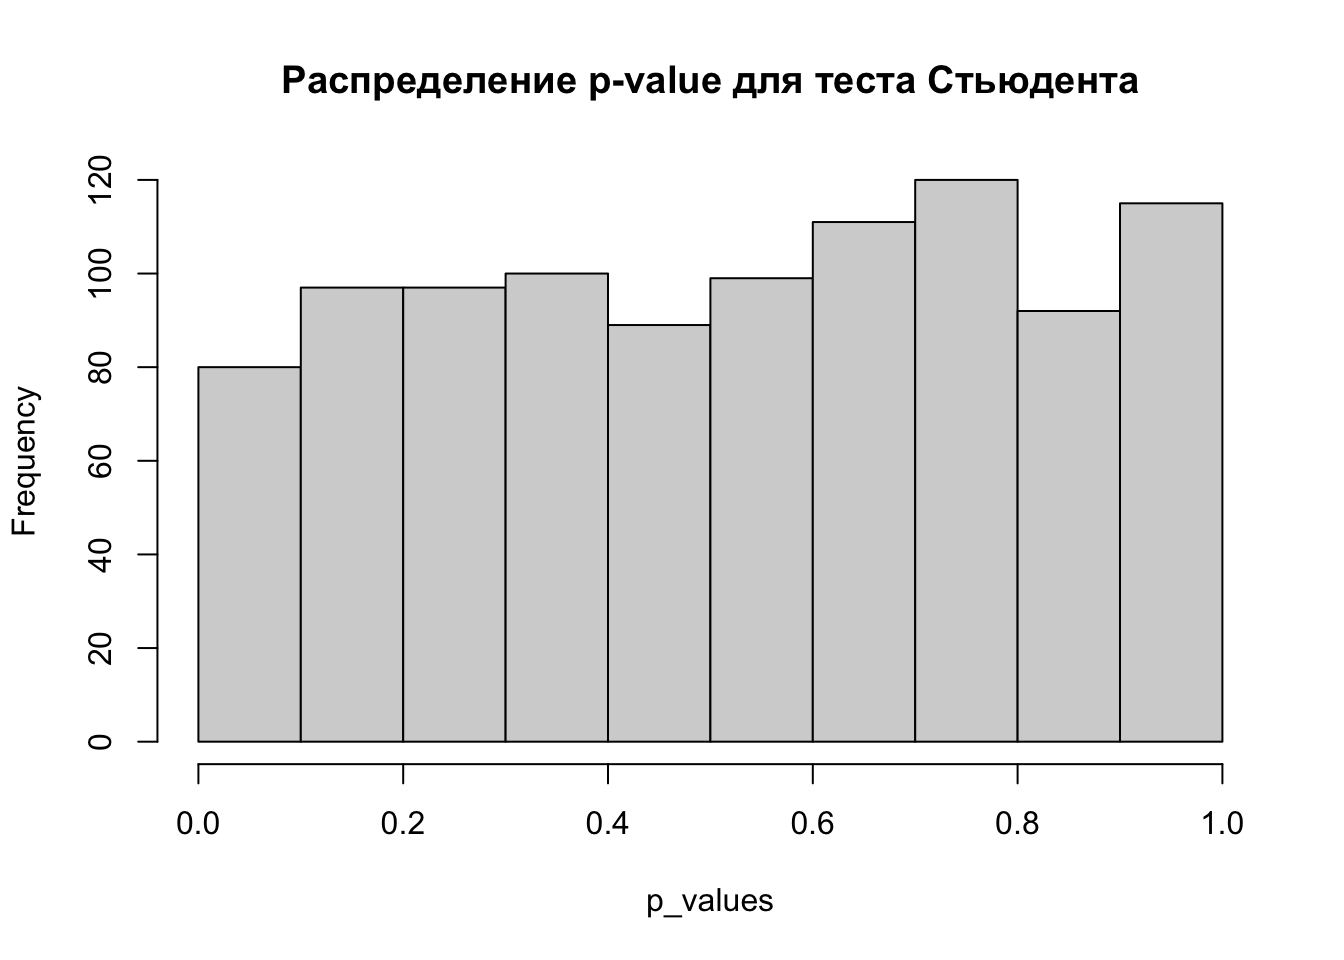
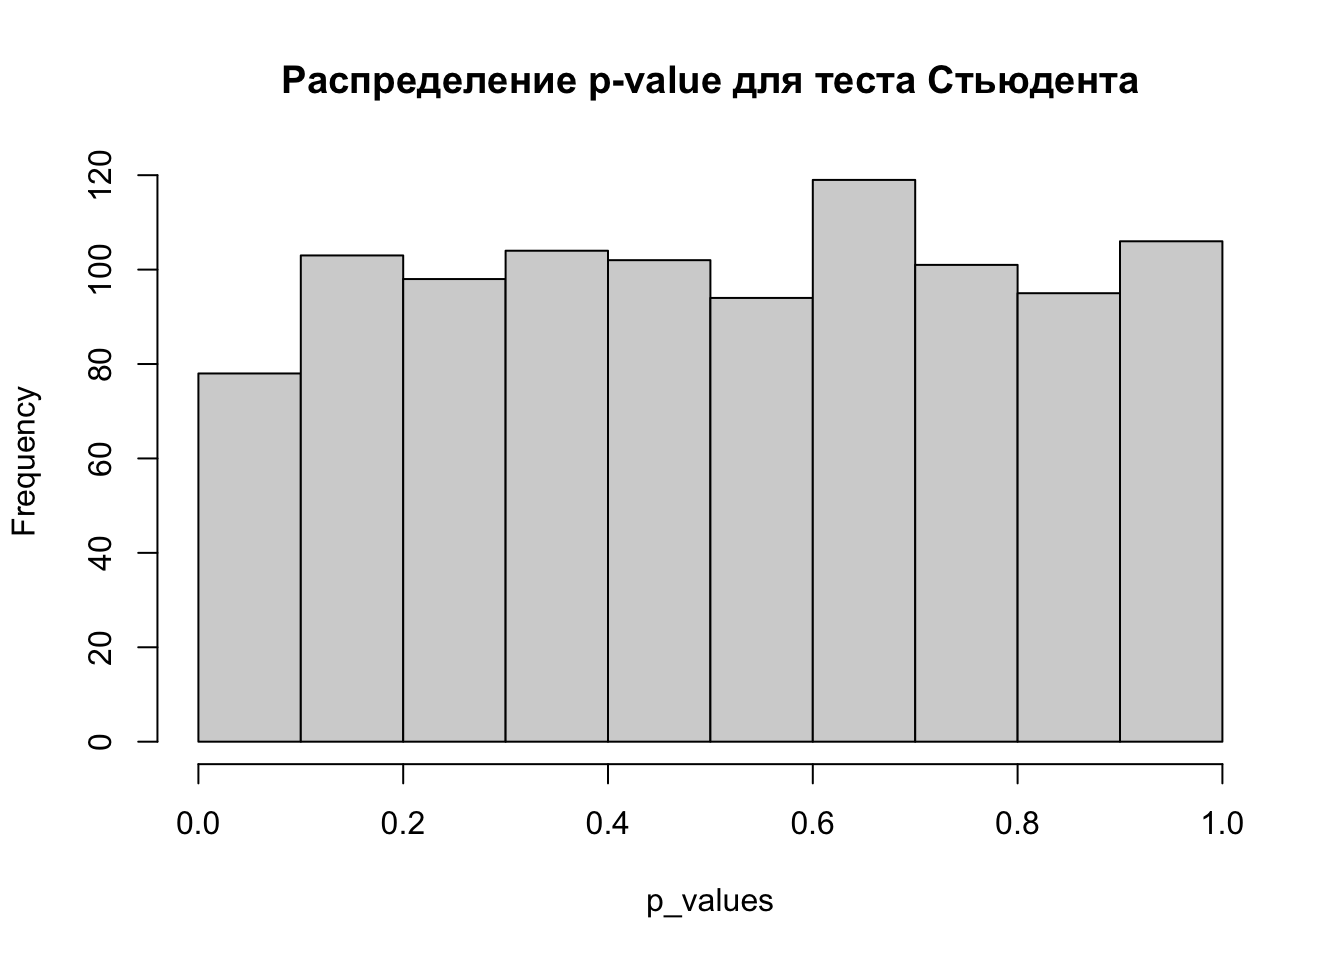
Built site for gh-pages

diff --git a/posts/welch_test.html b/posts/welch_test.html
@@ -103,12 +103,6 @@ pre > code.sourceCode > span > a:first-child::before { text-decoration: underlin
     "search-label": "Search"
   }
 }</script>
-<script async="" src="https://hypothes.is/embed.js"></script>
-<script>
-  window.document.addEventListener("DOMContentLoaded", function (_event) {
-    document.body.classList.add('hypothesis-enabled');
-  });
-</script>
 
   <script src="https://polyfill.io/v3/polyfill.min.js?features=es6"></script>
   <script src="https://cdn.jsdelivr.net/npm/mathjax@3/es5/tex-chtml-full.js" type="text/javascript"></script>
@@ -293,13 +287,13 @@ s_x = \sqrt{\frac{(n_1 - 1)s_1^2 + (n_2 - 1)s_2^2}{n_1 + n_2 - 2}}
     Two Sample t-test
 
 data:  rnorm(100, mean = 0, sd = 1) and rnorm(100, mean = 0, sd = 1)
-t = 0.56451, df = 198, p-value = 0.573
+t = 0.29237, df = 198, p-value = 0.7703
 alternative hypothesis: true difference in means is not equal to 0
 95 percent confidence interval:
- -0.2009888  0.3622122
+ -0.2274987  0.3066976
 sample estimates:
-   mean of x    mean of y 
- 0.079524855 -0.001086839 </code></pre>
+  mean of x   mean of y 
+-0.02237109 -0.06197055 </code></pre>
 </div>
 </div>
 <p>Однако это делать не рекомендуется, поскольку при равных дисперсиях тест Стьюдента не будет сильно отличаться от теста Велча, а при разных тест Велча точнее.</p>
@@ -357,7 +351,7 @@ Note
 </div>
 <div class="sourceCode cell-code" id="cb5"><pre class="sourceCode r code-with-copy"><code class="sourceCode r"><span id="cb5-1"><a href="#cb5-1" aria-hidden="true" tabindex="-1"></a><span class="fu">mean</span>(p_values <span class="sc">&lt;</span> <span class="fl">0.05</span>) <span class="co"># доля p-value, которые оказались меньше 0.05 (прокрасились) </span></span></code><button title="Copy to Clipboard" class="code-copy-button"><i class="bi"></i></button></pre></div>
 <div class="cell-output cell-output-stdout">
-<pre><code>[1] 0.038</code></pre>
+<pre><code>[1] 0.039</code></pre>
 </div>
 </div>
 <p><strong>Тест Стьюдента</strong></p>
@@ -377,7 +371,7 @@ Note
 </div>
 <div class="sourceCode cell-code" id="cb8"><pre class="sourceCode r code-with-copy"><code class="sourceCode r"><span id="cb8-1"><a href="#cb8-1" aria-hidden="true" tabindex="-1"></a><span class="fu">mean</span>(p_values <span class="sc">&lt;</span> <span class="fl">0.05</span>) <span class="co"># доля p-value, которые оказались меньше 0.05 (прокрасились)</span></span></code><button title="Copy to Clipboard" class="code-copy-button"><i class="bi"></i></button></pre></div>
 <div class="cell-output cell-output-stdout">
-<pre><code>[1] 0.037</code></pre>
+<pre><code>[1] 0.041</code></pre>
 </div>
 </div>
 <p>Здесь у нас вероятность ошибки первого рода для обоих тестов примерно 0.05, а также распределение p-value похоже на равномерное. Это ожидаемо и корректно, так как выборки извлекались из одинаковой генеральной совокупности, а значит, что доля значимых тестов должна быть не больше заданного уровня <span class="math inline">\(\alpha\)</span>, в данном случае 0.05.</p>
@@ -433,7 +427,20 @@ Note
 </section>
 <section id="одинаковое-среднее-разная-дисперсия-разный-размер-выборок" class="level3">
 <h3 class="anchored" data-anchor-id="одинаковое-среднее-разная-дисперсия-разный-размер-выборок">Одинаковое среднее, разная дисперсия, разный размер выборок</h3>
-<p>Например, в одной выборке 3000 наблюдений, в другой 7000.</p>
+<p>Например, в выборке с меньшей дисперсией 3000 наблюдений, в выборке с большей дисперсией 7000 наблюдений.</p>
+<div class="callout callout-style-default callout-warning callout-titled">
+<div class="callout-header d-flex align-content-center">
+<div class="callout-icon-container">
+<i class="callout-icon"></i>
+</div>
+<div class="callout-title-container flex-fill">
+Примечание
+</div>
+</div>
+<div class="callout-body-container callout-body">
+<p>Здесь я написала так для краткости, имелось ввиду: выборки, извлеченные из генеральной совокупности с <strong>меньшей</strong> дисперсией, содержат 3000 наблюдений, а выборки, извлеченные из генеральной совокупности с <strong>большей</strong> дисперсией, содержат 7000 наблюдений.</p>
+</div>
+</div>
 <div class="callout callout-style-default callout-tip callout-titled">
 <div class="callout-header d-flex align-content-center">
 <div class="callout-icon-container">
@@ -496,8 +503,8 @@ Note
 <div class="sourceCode cell-code" id="cb24"><pre class="sourceCode r code-with-copy"><code class="sourceCode r"><span id="cb24-1"><a href="#cb24-1" aria-hidden="true" tabindex="-1"></a>var_size <span class="ot">&lt;-</span> <span class="fu">seq</span>(<span class="dv">0</span>, <span class="dv">5</span>, <span class="fl">0.5</span>)</span>
 <span id="cb24-2"><a href="#cb24-2" aria-hidden="true" tabindex="-1"></a>calculate_mean_error_1st_type <span class="ot">&lt;-</span> <span class="cf">function</span>(x, var.equal) {</span>
 <span id="cb24-3"><a href="#cb24-3" aria-hidden="true" tabindex="-1"></a>  <span class="fu">mean</span>(<span class="fu">replicate</span>(<span class="dv">1000</span>, </span>
-<span id="cb24-4"><a href="#cb24-4" aria-hidden="true" tabindex="-1"></a>                 <span class="fu">t.test</span>(<span class="fu">rnorm</span>(<span class="dv">9000</span>, <span class="fl">0.2</span>, <span class="dv">1</span>), </span>
-<span id="cb24-5"><a href="#cb24-5" aria-hidden="true" tabindex="-1"></a>                        <span class="fu">rnorm</span>(<span class="dv">1000</span>, <span class="fl">0.2</span>, <span class="dv">1</span><span class="sc">+</span>x), </span>
+<span id="cb24-4"><a href="#cb24-4" aria-hidden="true" tabindex="-1"></a>                 <span class="fu">t.test</span>(<span class="fu">rnorm</span>(<span class="dv">3000</span>, <span class="fl">0.2</span>, <span class="dv">1</span>), </span>
+<span id="cb24-5"><a href="#cb24-5" aria-hidden="true" tabindex="-1"></a>                        <span class="fu">rnorm</span>(<span class="dv">7000</span>, <span class="fl">0.2</span>, <span class="dv">1</span><span class="sc">+</span>x), </span>
 <span id="cb24-6"><a href="#cb24-6" aria-hidden="true" tabindex="-1"></a>                        <span class="at">var.equal =</span> var.equal)<span class="sc">$</span>p.value) <span class="sc">&lt;</span> <span class="fl">0.05</span>)</span>
 <span id="cb24-7"><a href="#cb24-7" aria-hidden="true" tabindex="-1"></a>}</span>
 <span id="cb24-8"><a href="#cb24-8" aria-hidden="true" tabindex="-1"></a>welch_error_1st_type <span class="ot">&lt;-</span> <span class="fu">map_dbl</span>(var_size, <span class="sc">~</span><span class="fu">calculate_mean_error_1st_type</span>(., <span class="cn">FALSE</span>))</span>
@@ -727,27 +734,38 @@ Note
 <h3 class="anchored" data-anchor-id="разное-среднее-разная-дисперсия-разный-размер-выборок">Разное среднее, разная дисперсия, разный размер выборок</h3>
 <div class="cell">
 <div class="sourceCode cell-code" id="cb46"><pre class="sourceCode r code-with-copy"><code class="sourceCode r"><span id="cb46-1"><a href="#cb46-1" aria-hidden="true" tabindex="-1"></a>pop1 <span class="ot">&lt;-</span> <span class="fu">rnorm</span>(<span class="dv">100000</span>, <span class="fl">0.2</span>, <span class="dv">1</span>)</span>
-<span id="cb46-2"><a href="#cb46-2" aria-hidden="true" tabindex="-1"></a>pop2 <span class="ot">&lt;-</span> <span class="fu">rnorm</span>(<span class="dv">100000</span>, <span class="fl">0.3</span>, <span class="dv">3</span>)</span>
-<span id="cb46-3"><a href="#cb46-3" aria-hidden="true" tabindex="-1"></a><span class="co"># тест Велча</span></span>
-<span id="cb46-4"><a href="#cb46-4" aria-hidden="true" tabindex="-1"></a><span class="fu">mean</span>(<span class="fu">replicate</span>(<span class="dv">10000</span>, <span class="fu">t.test</span>(pop1 <span class="sc">%&gt;%</span> </span>
-<span id="cb46-5"><a href="#cb46-5" aria-hidden="true" tabindex="-1"></a>                               <span class="fu">sample</span>(<span class="dv">3000</span>, <span class="at">replace =</span> <span class="cn">FALSE</span>), </span>
-<span id="cb46-6"><a href="#cb46-6" aria-hidden="true" tabindex="-1"></a>                             pop2 <span class="sc">%&gt;%</span> </span>
-<span id="cb46-7"><a href="#cb46-7" aria-hidden="true" tabindex="-1"></a>                               <span class="fu">sample</span>(<span class="dv">7000</span>, <span class="at">replace =</span> <span class="cn">FALSE</span>))<span class="sc">$</span>p.value) <span class="sc">&lt;</span> <span class="fl">0.05</span>)</span></code><button title="Copy to Clipboard" class="code-copy-button"><i class="bi"></i></button></pre></div>
+<span id="cb46-2"><a href="#cb46-2" aria-hidden="true" tabindex="-1"></a>pop2 <span class="ot">&lt;-</span> <span class="fu">rnorm</span>(<span class="dv">100000</span>, <span class="fl">0.35</span>, <span class="dv">2</span>)</span>
+<span id="cb46-3"><a href="#cb46-3" aria-hidden="true" tabindex="-1"></a><span class="fu">summary</span>(pop1)</span></code><button title="Copy to Clipboard" class="code-copy-button"><i class="bi"></i></button></pre></div>
 <div class="cell-output cell-output-stdout">
-<pre><code>[1] 0.6574</code></pre>
+<pre><code>   Min. 1st Qu.  Median    Mean 3rd Qu.    Max. 
+-4.1361 -0.4725  0.1992  0.2008  0.8746  4.9005 </code></pre>
+</div>
+<div class="sourceCode cell-code" id="cb48"><pre class="sourceCode r code-with-copy"><code class="sourceCode r"><span id="cb48-1"><a href="#cb48-1" aria-hidden="true" tabindex="-1"></a><span class="fu">summary</span>(pop2)</span></code><button title="Copy to Clipboard" class="code-copy-button"><i class="bi"></i></button></pre></div>
+<div class="cell-output cell-output-stdout">
+<pre><code>   Min. 1st Qu.  Median    Mean 3rd Qu.    Max. 
+-8.2408 -1.0054  0.3471  0.3469  1.6928  8.8229 </code></pre>
+</div>
+<div class="sourceCode cell-code" id="cb50"><pre class="sourceCode r code-with-copy"><code class="sourceCode r"><span id="cb50-1"><a href="#cb50-1" aria-hidden="true" tabindex="-1"></a><span class="co"># тест Велча</span></span>
+<span id="cb50-2"><a href="#cb50-2" aria-hidden="true" tabindex="-1"></a><span class="fu">mean</span>(<span class="fu">replicate</span>(<span class="dv">10000</span>, <span class="fu">t.test</span>(pop1 <span class="sc">%&gt;%</span> </span>
+<span id="cb50-3"><a href="#cb50-3" aria-hidden="true" tabindex="-1"></a>                               <span class="fu">sample</span>(<span class="dv">7000</span>, <span class="at">replace =</span> <span class="cn">FALSE</span>), </span>
+<span id="cb50-4"><a href="#cb50-4" aria-hidden="true" tabindex="-1"></a>                             pop2 <span class="sc">%&gt;%</span> </span>
+<span id="cb50-5"><a href="#cb50-5" aria-hidden="true" tabindex="-1"></a>                               <span class="fu">sample</span>(<span class="dv">3000</span>, <span class="at">replace =</span> <span class="cn">FALSE</span>))<span class="sc">$</span>p.value) <span class="sc">&lt;</span> <span class="fl">0.05</span>)</span></code><button title="Copy to Clipboard" class="code-copy-button"><i class="bi"></i></button></pre></div>
+<div class="cell-output cell-output-stdout">
+<pre><code>[1] 0.9695</code></pre>
 </div>
 </div>
 <div class="cell">
-<div class="sourceCode cell-code" id="cb48"><pre class="sourceCode r code-with-copy"><code class="sourceCode r"><span id="cb48-1"><a href="#cb48-1" aria-hidden="true" tabindex="-1"></a><span class="co"># тест Стьюдента</span></span>
-<span id="cb48-2"><a href="#cb48-2" aria-hidden="true" tabindex="-1"></a><span class="fu">mean</span>(<span class="fu">replicate</span>(<span class="dv">10000</span>, <span class="fu">t.test</span>(pop1 <span class="sc">%&gt;%</span> </span>
-<span id="cb48-3"><a href="#cb48-3" aria-hidden="true" tabindex="-1"></a>                               <span class="fu">sample</span>(<span class="dv">3000</span>, <span class="at">replace =</span> <span class="cn">FALSE</span>), </span>
-<span id="cb48-4"><a href="#cb48-4" aria-hidden="true" tabindex="-1"></a>                             pop2 <span class="sc">%&gt;%</span> </span>
-<span id="cb48-5"><a href="#cb48-5" aria-hidden="true" tabindex="-1"></a>                               <span class="fu">sample</span>(<span class="dv">7000</span>, <span class="at">replace =</span> <span class="cn">FALSE</span>),</span>
-<span id="cb48-6"><a href="#cb48-6" aria-hidden="true" tabindex="-1"></a>                             <span class="at">var.equal =</span> <span class="cn">TRUE</span>)<span class="sc">$</span>p.value) <span class="sc">&lt;</span> <span class="fl">0.05</span>)</span></code><button title="Copy to Clipboard" class="code-copy-button"><i class="bi"></i></button></pre></div>
+<div class="sourceCode cell-code" id="cb52"><pre class="sourceCode r code-with-copy"><code class="sourceCode r"><span id="cb52-1"><a href="#cb52-1" aria-hidden="true" tabindex="-1"></a><span class="co"># тест Стьюдента</span></span>
+<span id="cb52-2"><a href="#cb52-2" aria-hidden="true" tabindex="-1"></a><span class="fu">mean</span>(<span class="fu">replicate</span>(<span class="dv">10000</span>, <span class="fu">t.test</span>(pop1 <span class="sc">%&gt;%</span> </span>
+<span id="cb52-3"><a href="#cb52-3" aria-hidden="true" tabindex="-1"></a>                               <span class="fu">sample</span>(<span class="dv">7000</span>, <span class="at">replace =</span> <span class="cn">FALSE</span>), </span>
+<span id="cb52-4"><a href="#cb52-4" aria-hidden="true" tabindex="-1"></a>                             pop2 <span class="sc">%&gt;%</span> </span>
+<span id="cb52-5"><a href="#cb52-5" aria-hidden="true" tabindex="-1"></a>                               <span class="fu">sample</span>(<span class="dv">3000</span>, <span class="at">replace =</span> <span class="cn">FALSE</span>),</span>
+<span id="cb52-6"><a href="#cb52-6" aria-hidden="true" tabindex="-1"></a>                             <span class="at">var.equal =</span> <span class="cn">TRUE</span>)<span class="sc">$</span>p.value) <span class="sc">&lt;</span> <span class="fl">0.05</span>)</span></code><button title="Copy to Clipboard" class="code-copy-button"><i class="bi"></i></button></pre></div>
 <div class="cell-output cell-output-stdout">
-<pre><code>[1] 0.3437</code></pre>
+<pre><code>[1] 0.9895</code></pre>
 </div>
 </div>
+<p>Здесь тест Велча показал себя значительно лучше.</p>
 </section>
 </section>
 <section id="выводы" class="level2">
@@ -1167,6 +1185,8 @@ window.document.addEventListener("DOMContentLoaded", function (event) {
     }
   }
 });
+</script>
+<script src="https://utteranc.es/client.js" repo="ubogoeva/R4Analytics_comments" issue-term="pathname" theme="github-light" crossorigin="anonymous" async="">
 </script>
 </div> <!-- /content -->
 

diff --git a/posts/multiple_testing.html b/posts/multiple_testing.html
@@ -1230,6 +1230,8 @@ window.document.addEventListener("DOMContentLoaded", function (event) {
   }
 });
 </script>
+<script src="https://utteranc.es/client.js" repo="ubogoeva/R4Analytics_comments" issue-term="pathname" theme="github-light" crossorigin="anonymous" async="">
+</script>
 </div> <!-- /content -->
 
 

diff --git a/about.html b/about.html
@@ -605,6 +605,8 @@ window.document.addEventListener("DOMContentLoaded", function (event) {
   }
 });
 </script>
+<script src="https://utteranc.es/client.js" repo="ubogoeva/R4Analytics_comments" issue-term="pathname" theme="github-light" crossorigin="anonymous" async="">
+</script>
 </div> <!-- /content -->
 
 

diff --git a/posts/R_question_how_to_ask.html b/posts/R_question_how_to_ask.html
@@ -668,6 +668,8 @@ window.document.addEventListener("DOMContentLoaded", function (event) {
   }
 });
 </script>
+<script src="https://utteranc.es/client.js" repo="ubogoeva/R4Analytics_comments" issue-term="pathname" theme="github-light" crossorigin="anonymous" async="">
+</script>
 </div> <!-- /content -->
 
 

diff --git a/posts/YandexMetricsQuarto.html b/posts/YandexMetricsQuarto.html
@@ -646,6 +646,8 @@ window.document.addEventListener("DOMContentLoaded", function (event) {
   }
 });
 </script>
+<script src="https://utteranc.es/client.js" repo="ubogoeva/R4Analytics_comments" issue-term="pathname" theme="github-light" crossorigin="anonymous" async="">
+</script>
 </div> <!-- /content -->
 
 

diff --git a/posts/ansombe_quartet.html b/posts/ansombe_quartet.html
@@ -774,6 +774,8 @@ window.document.addEventListener("DOMContentLoaded", function (event) {
   }
 });
 </script>
+<script src="https://utteranc.es/client.js" repo="ubogoeva/R4Analytics_comments" issue-term="pathname" theme="github-light" crossorigin="anonymous" async="">
+</script>
 </div> <!-- /content -->
 
 

diff --git a/posts/contest_samokat.html b/posts/contest_samokat.html
@@ -795,6 +795,8 @@ window.document.addEventListener("DOMContentLoaded", function (event) {
   }
 });
 </script>
+<script src="https://utteranc.es/client.js" repo="ubogoeva/R4Analytics_comments" issue-term="pathname" theme="github-light" crossorigin="anonymous" async="">
+</script>
 </div> <!-- /content -->
 
 

diff --git a/posts/how_to_install_R.html b/posts/how_to_install_R.html
@@ -724,6 +724,8 @@ window.document.addEventListener("DOMContentLoaded", function (event) {
   }
 });
 </script>
+<script src="https://utteranc.es/client.js" repo="ubogoeva/R4Analytics_comments" issue-term="pathname" theme="github-light" crossorigin="anonymous" async="">
+</script>
 </div> <!-- /content -->
 
 

diff --git a/posts/statistics_course_why_not.html b/posts/statistics_course_why_not.html
@@ -793,6 +793,8 @@ window.document.addEventListener("DOMContentLoaded", function (event) {
   }
 });
 </script>
+<script src="https://utteranc.es/client.js" repo="ubogoeva/R4Analytics_comments" issue-term="pathname" theme="github-light" crossorigin="anonymous" async="">
+</script>
 </div> <!-- /content -->
 
 

diff --git a/posts/students_test.html b/posts/students_test.html
@@ -674,6 +674,8 @@ window.document.addEventListener("DOMContentLoaded", function (event) {
   }
 });
 </script>
+<script src="https://utteranc.es/client.js" repo="ubogoeva/R4Analytics_comments" issue-term="pathname" theme="github-light" crossorigin="anonymous" async="">
+</script>
 </div> <!-- /content -->
 
 

diff --git a/posts/types_of_error_bars.html b/posts/types_of_error_bars.html
@@ -933,6 +933,8 @@ window.document.addEventListener("DOMContentLoaded", function (event) {
   }
 });
 </script>
+<script src="https://utteranc.es/client.js" repo="ubogoeva/R4Analytics_comments" issue-term="pathname" theme="github-light" crossorigin="anonymous" async="">
+</script>
 </div> <!-- /content -->
 
 

diff --git a/posts/lectures/quarto_lecture.html b/posts/lectures/quarto_lecture.html
@@ -1600,6 +1600,8 @@ Ctrl+Alt+&lt;уровень заголовка&gt;</p>
       }
     });
     </script>
+    <script src="https://utteranc.es/client.js" repo="ubogoeva/R4Analytics_comments" issue-term="pathname" theme="github-light" crossorigin="anonymous" async="">
+    </script>
     
 
 </body></html>
